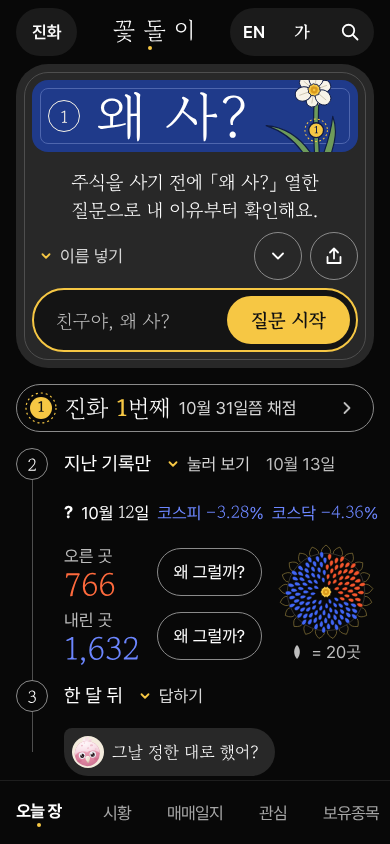
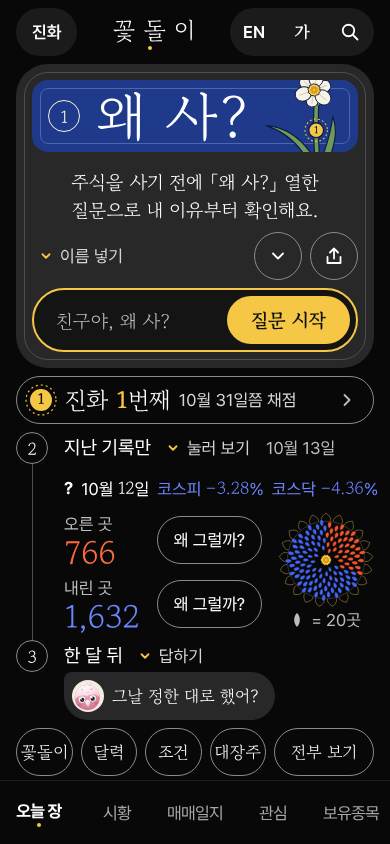
구글과 잡스 석 장 — 그리는 중 사본
Claude-Session: https://claude.ai/code/session_01NCpyR4ELc71hqitZJpUS2Z

diff --git a/docs/design/kakao-2026-10-19/mock/j1.why.md b/docs/design/kakao-2026-10-19/mock/j1.why.md
@@ -1,0 +1,20 @@
+# j1 · 「찾기 하나」
+
+한 줄 생각: r3 를 바탕으로 구글 첫 화면처럼 찾기 칸을 주인공으로 세웠다. 맨 위는 판화 「왜 사?」 머리 그림, 그 밑에 한 문장, 그리고 금빛 테의 큰 찾기 칸이다. 잡스처럼 나머지는 덜어냈다. 회색 판과 테를 걷고, 진화는 테 없는 한 줄로 줄였다. ② ③ · 씨앗 · 꽃돌이 칸은 화면 아래쪽에 낮은 목소리로 붙였다.
+
+## 왜? 다섯
+1. 왜 찾기 칸이 주인공인가? 처음 온 친구가 할 일은 하나다. 회사 이름을 넣고 「질문 시작」을 누르는 것. 칸 높이는 72px, 단추는 56px 이다. 첫 화면에서 가장 크고 밝은 누를 곳이다.
+2. 왜 「왜 사?」 판화는 남겼나? 구글 첫 화면의 머리 그림 자리다. 무엇을 하는 곳인지 그림 한 장으로 말한다. 수선화 판화와 「1」은 r3 그대로다.
+3. 왜 회색 판과 테를 걷었나? 판 안의 판, 테 안의 테가 찾기 칸의 힘을 나눠 가졌다. 걷어 내니 눈이 판화에서 문장, 문장에서 찾기 칸으로 곧장 내려간다. 「이름 넣기」 안내는 찾기 칸 밑으로 옮기고 화살을 위로 돌렸다.
+4. 왜 아래는 조용히 했나? 진화는 테 없이 가는 선 사이 한 줄이다. 날짜 숫자는 흰색으로 두고 금빛은 「1」에만 남겼다. ② ③ 번호 동그라미는 작게, 숫자 글씨는 30px 에서 26px 로 낮췄다. 씨앗 그림도 100px 에서 84px 로 줄였다. 위와 아래 사이에는 남는 만큼 빈 숨을 둔다.
+5. 본질: 사기 전에 한 번 멈추게 하는 곳. 찾기 칸 단추는 「사기」가 아니라 「질문 시작」이다. 이름을 넣으면 산다는 말 대신 열한 질문이 먼저 나온다. 화면에서 가장 큰 것이 멈춤의 입구다.
+
+## 그럴까?
+찾기 칸만 크게 하면 시황 숫자가 너무 작아져 「오늘 장」을 보러 온 사람이 실망하지 않을까? 그래서 숫자는 지우지 않고 한 화면 안에 남겼다. 오른 곳 · 내린 곳 · 「왜 그럴까?」 단추 둘도 그대로다.
+
+## 그대로 둔 것 · 바꾼 것
+그대로 둔 것: 판화 수선화 · 씨앗 120알(다홍 38 : 남빛 82) · 본질 세 줄 · 숫자 · 날짜(10월 12일 · 10월 13일 · 10월 31일쯤) · 이름 꽃돌이 · 「왜 그럴까?」 단추 둘 · 표시(data-w · data-ess · data-say · data-num · data-fact · data-path="q1" · jhBtn) · 아래 단추 다섯 · 찾기 칸 글 「친구야, 왜 사?」.
+바꾼 것: 회색 판 · 테 걷음 · 찾기 칸 60 → 72px · 「이름 넣기」 칸 위 → 칸 밑 · 진화 테 칸 → 선 사이 한 줄 · 아래 묶음은 화면 아래쪽에 붙임 · 「전부 보기」 목록은 위로 펼침.
+
+## 검사
+check_white --mock: 통과 22 · 실패 2(흰 바탕 · 글 #16181D — 어두운 카톡 판이라 걸려도 되는 두 줄뿐) · 글자 105자(r3 와 같음) · 390 × 844 다섯 칸이 한 화면(찾기 319 · 오늘 538 · 꽃돌이 칸과 전부 보기 780 ≤ 780) · 320 × 568 본질 칸과 찾기 칸이 한 화면 · 옆 넘침 0.
